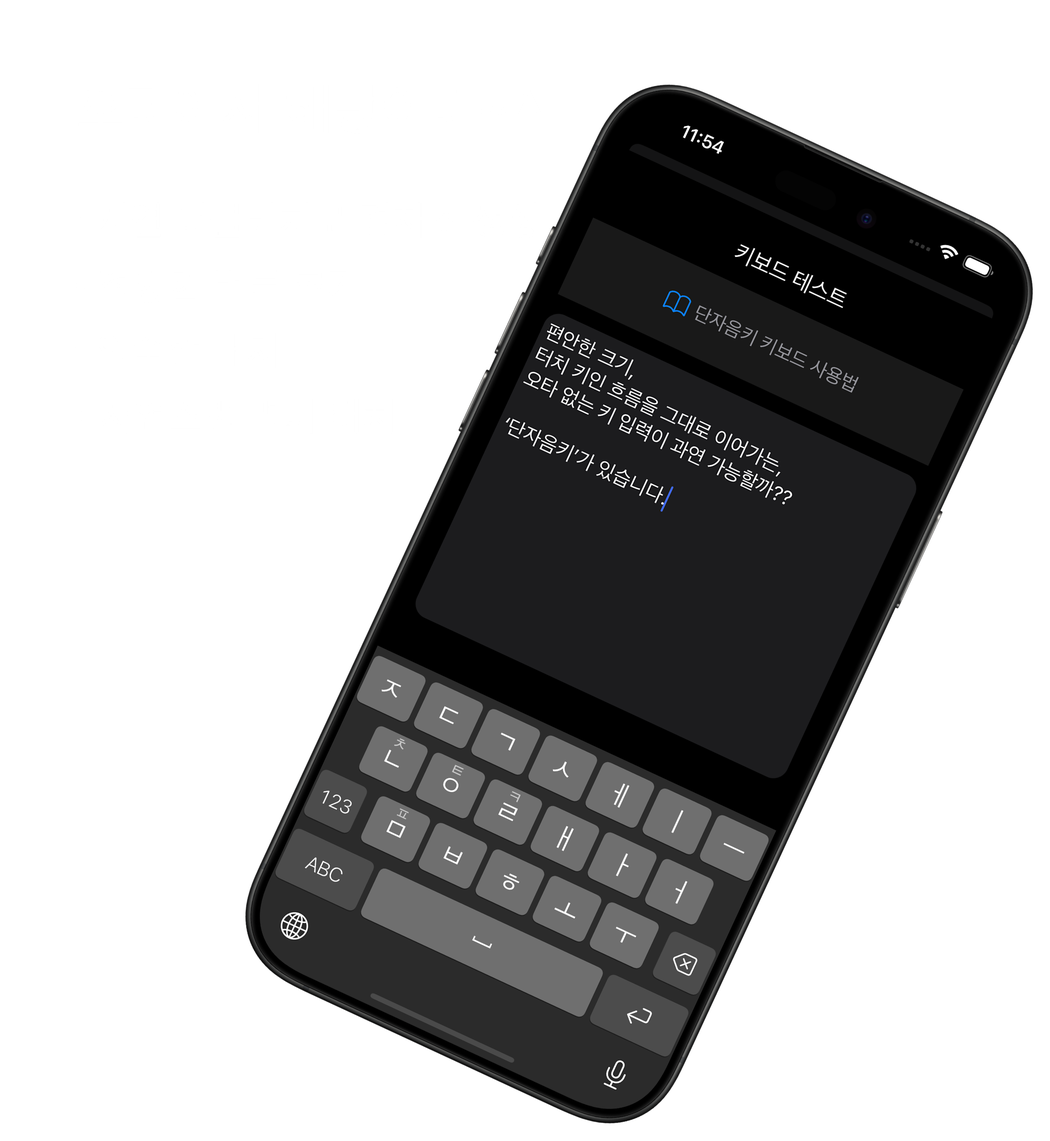
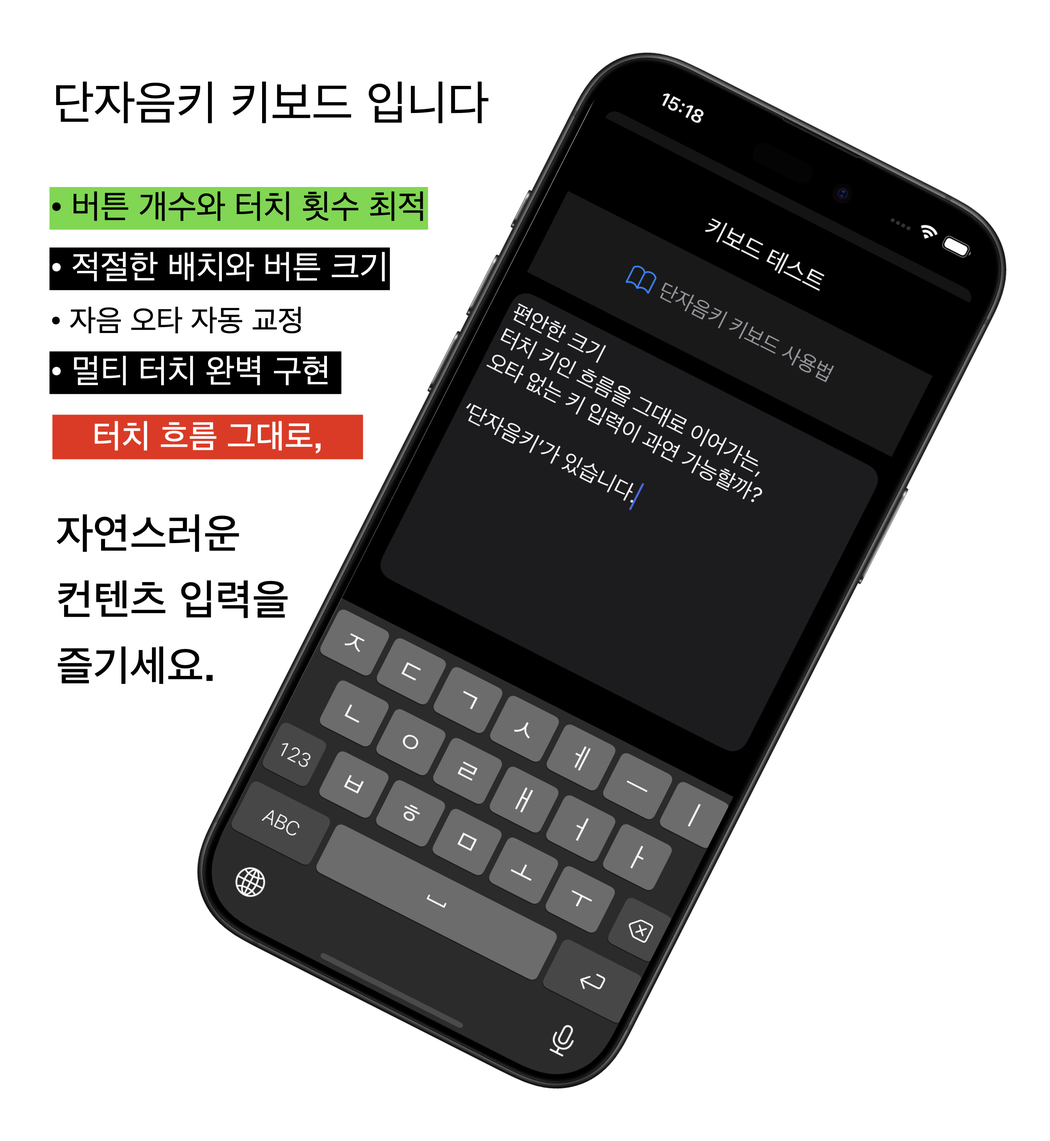
Add files via upload

Changed region(s): [[0.0311, 0.031, 0.9939, 0.993], [0.0311, 0.0621, 0.4659, 0.1241]]

diff --git a/manual.html b/manual.html
@@ -5,7 +5,7 @@
 	<meta name="viewport" content="width=device-width, initial-scale=1">
 	<meta name="generator" content="RocketCake">
 	<title></title>
-	<link rel="stylesheet" type="text/css" href="manual_html.css?h=6cad0a75">
+	<link rel="stylesheet" type="text/css" href="manual_html.css?h=8f11c857">
 </head>
 <body>
 <div class="textstyle1">
@@ -15,20 +15,19 @@
 </div></div><div id="container_5e11d928"><div class="textstyle4"><div id="container_2d7b4969"><div class="textstyle4"><span class="textstyle5"><a href="index.html">Home</a></span><span class="textstyle5"><br/></span><span class="textstyle5"><a href="about.html">About</a></span><span class="textstyle5"><br/></span><span class="textstyle5"><a href="contact.html">Contact</a></span><span class="textstyle5"><br/></span><span class="textstyle6"><a href="manual.html">Manual</a></span><span class="textstyle5"><br/></span></div>
 </div></div>
 </div></div>
-<div style="clear:both"></div></div></div><div id="container_42e1be39"><div class="textstyle2"><img src="rc_images/djmkey_dark_wide_____002.png" width="1755" height="959" id="img_11e60731" alt="" title="" /></div>
-</div><span class="textstyle7"><br/></span><span class="textstyle8"><br/></span><div id="container_541cc4d"><div id="container_541cc4d_padding" ><div class="textstyle2"><span class="textstyle9"><br/><br/>    </span><span class="textstyle10">&#45800;&#51088;&#51020;&#53412; &#47700;&#45684;&#50620;<br/></span><span class="textstyle9"><br/></span><div id="container_b26edf4"><div id="container_b26edf4_padding" ><div class="textstyle2">  <span class="textstyle11">&#44217;&#51088;&#49548; &#51648;&#50672; &#53412; &#49324;&#50857;&#48277; </span>
-<span class="textstyle12"><br/>&#44217;&#51088;&#49548; (&#49933;&#51088;&#51020;, &#44217;&#51088;&#51020; , &#49933;&#47784;&#51020;)&#47484;  &#49373;&#49457;&#54616;&#45716; &#48324;&#46020;&#51032; &#44508;&#52825;&#51060; &#51080;&#49845;&#45768;&#45796; <br/></span><span class="textstyle13">-&gt; &#45908;&#48660;&#53364;&#47533;&#51032; &#46160;&#48264;&#51704; &#53364;&#47533;&#51012; &#51328; &#45908; &#48736;&#47476;&#44172; &#53552;&#52824;&#54616;&#46020;&#47197;&#54633;&#45768;&#45796;</span><span class="textstyle12"><br/><br/>&#51060;&#47196;&#50024; '&#54617;&#44368;'&#50752; &#44057;&#51060; '&#12593;' '&#12593;'&#51012; &#48736;&#47476;&#44172; &#51077;&#47141;&#54616;&#50668;&#46020; &#50724;&#53440;&#44032; &#48156;&#49373;&#54616;&#51648; &#50506;&#44256; &#53412; &#51077;&#47141; &#49549;&#46020; &#46608;&#54620; &#48736;&#47493;&#45768;&#45796;   <br/></span></div>
-</div></div><span class="textstyle9"><br/><br/></span><img src="rc_images/djmkey_light_____002.png" width="1320" height="944" id="img_76372fca" alt="" title="" /><div id="container_5ed9721c"><div id="container_5ed9721c_padding" ><div class="textstyle2"><span class="textstyle11">&#44217;&#51088;&#51020; &#8216;&#12619;&#8217; &#47564;&#46308;&#44592; 1)</span><span class="textstyle12"><br/>&#44217;&#51088;&#51020; &#45824;&#51025; &#53412; &#8216;&#12601;&#8217; &#48260;&#53948;&#51012; &#45908;&#48660;&#53552;&#52824;&#54624;&#46412; &#52395;&#48264;&#51704; &#53552;&#52824; &#44600;&#44172; &#46160;&#48264;&#51704; &#53552;&#52824;&#45716; &#51687;&#44172; &#53552;&#52824;&#54616;&#47732; &#46121;&#45768;&#45796;<br/><br/></span><span class="textstyle14">* &#44217;&#51088;&#49548; &#51064;&#51221; &#54661;&#54001; &#48152;&#51025;&#51012; &#48155;&#51012; &#49688; &#51080;&#49845;&#45768;&#45796;(&#50741;&#49496; &#49444;&#51221;) </span></div>
-</div></div><span class="textstyle9"><br/><br/></span><img src="rc_images/djmkey_light_____003.png" width="1320" height="954" id="img_5be0ad15" alt="" title="" /><div id="container_62709428"><div id="container_62709428_padding" ><div class="textstyle2"><span class="textstyle11">&#44217;&#51088;&#51020; &#8216;&#12619;&#8217; &#47564;&#46308;&#44592; 2)</span><span class="textstyle12"><br/>&#44217;&#51088;&#51020; &#45824;&#51025; &#53412; &#8216;&#12601;&#8217; &#48260;&#53948;&#51012; &#44600;&#44172; &#53552;&#52824; &#54980; &#50948;&#51901; &#48169;&#54693;&#51004;&#47196; &#54540;&#47549;(&#50424;&#50612;&#50732;&#47532;&#44592;)&#54616;&#47732; &#46121;&#45768;&#45796;<br/></span></div>
-</div></div><span class="textstyle9"><br/><br/></span><img src="rc_images/djmkey_light_____004.png" width="1320" height="948" id="img_66675b11" alt="" title="" /><div id="container_4c8cc367"><div id="container_4c8cc367_padding" ><div class="textstyle2"><span class="textstyle11">&#51096;&#47803; &#51077;&#47141;&#46108; &#44217;&#51088;&#49548;&#51032; &#45800;&#51088;&#49548;&#47484; &#44217;&#51088;&#49548;&#47196; &#48320;&#54872;</span><span class="textstyle12"><br/>&#8216;&#12619;&#8217; &#53412;&#47484; &#51648;&#50672; &#53552;&#52824;&#54620; &#44163;&#51060; &#51096;&#47803;&#51077;&#47141;&#46108; &#44163;&#51060;&#46972;&#47732; 3&#44032;&#51648; &#48169;&#48277;&#51060; &#51080;&#49845;&#45768;&#45796;<br/><br/>1) &#51060;&#48120; &#45800;&#51088;&#49548; 1&#44060;&#44032; &#51077;&#47141;&#46108; &#44163;&#51060;&#46972;&#47732; &#53412;&#48372;&#46300; &#50612;&#45712;&#44275;&#51060;&#46304; &#50500;&#47000; &#48169;&#54693; &#54540;&#47549;<br/>2) &#51060;&#48120; 2&#44060; &#46041;&#51068;&#54620; &#45800;&#51088;&#49548;&#47196; &#51077;&#47141;&#46108; &#44163;&#51060;&#46972;&#47732; &#53412;&#48372;&#46300; &#50612;&#45712; &#44275;&#51060;&#46304; &#50500;&#47000; &#48169;&#54693; &#54540;&#47549;<br/>3) &#51060;&#48120; 1&#53552;&#52824; &#54980; 2&#53552;&#52824;&#47484; &#45572;&#47480; &#49345;&#53468;&#50640;&#49436; &#44217;&#51088;&#49548; &#54056;&#53556;&#51060; &#51096;&#47803;&#46108; &#44163;&#51060;&#47732; &#51593;&#49884; &#50500;&#47000; &#48169;&#54693; &#54540;&#47549;<br/></span></div>
-</div></div><span class="textstyle9"><br/><br/></span><img src="rc_images/eumjikey_light_____004.png" width="660" height="477" id="img_6532fa0e" alt="" title="" /><div id="container_4fe2a894"><div id="container_4fe2a894_padding" ><div class="textstyle2"><span class="textstyle11">&#49772;&#54532;&#53944;&#53412;(up&#53412;) &#49440;&#53469; 1)</span><span class="textstyle12"><br/>&#50696;) ' 8 &#8216; &#53412;&#47484; &#50948;&#54644; ' &#12624; '&#53412;&#47484; &#45572;&#47476;&#51088; &#47560;&#51088; &#50948; &#48169;&#54693; &#54540;&#47549;(&#50424;&#50612;&#50732;&#47532;&#44592;) &#54633;&#45768;&#45796;</span></div>
-</div></div><span class="textstyle9"><br/><br/></span><img src="rc_images/djmkey_light_____006.png" width="1320" height="948" id="img_2a64b3ae" alt="" title="" /><div id="container_5a2c13b7"><div id="container_5a2c13b7_padding" ><div class="textstyle2"><span class="textstyle11">&#49772;&#54532;&#53944;&#53412;(up&#53412;) &#49440;&#53469; 2)</span><span class="textstyle12"><br/>&#8216;123&#8217;&#53412;&#47484; 0.5&#52488; &#51060;&#49345; &#45572;&#47480; &#52292;&#47196; &#50628;&#51648;&#47484; ' &#12624; ' &#50948;&#52824;&#47196; &#45132;&#50612; &#49440;&#53469;&#54616;&#44144;&#45208; &#45796;&#47480; &#49552;&#44032;&#46973;&#51004;&#47196; &#45572;&#47493;&#45768;&#45796;<br/></span></div>
-</div></div><span class="textstyle9"><br/><br/></span><img src="rc_images/djmkey_light_____007.png" width="1320" height="949" id="img_4902854c" alt="" title="" /><div id="container_7e510c81"><div id="container_7e510c81_padding" ><div class="textstyle2">  <span class="textstyle12">&#50696;) ' &#44036; ' : &#50628;&#51648;&#47484; &#46524;&#51648; &#50506;&#44256; &#45796;&#47480; &#50628;&#51648;&#47196; &#51088;&#49548;&#47484; &#45572;&#47476;&#45716; &#47680;&#54000; &#53552;&#52824;&#44032; &#44032;&#45733;&#54633;&#45768;&#45796; </span>
+<div style="clear:both"></div></div></div><div id="container_42e1be39"><div class="textstyle2"><img src="rc_images/djmkey_dark_wide_0021.png" width="1893" height="969" id="img_11e60731" alt="" title="" /></div>
+</div><span class="textstyle7"><br/></span><span class="textstyle8"><br/></span><div id="container_541cc4d"><div id="container_541cc4d_padding" ><div class="textstyle2"><span class="textstyle9"><br/><br/>    </span><span class="textstyle10">&#45800;&#51088;&#51020;&#53412; &#47700;&#45684;&#50620;<br/></span><span class="textstyle9"><br/></span><span class="textstyle9"><br/><br/></span><img src="rc_images/djmkey_light_002.png" width="1320" height="1487" id="img_76372fca" alt="" title="" /><div id="container_5ed9721c"><div id="container_5ed9721c_padding" ><div class="textstyle2"><span class="textstyle11">&#44217;&#51088;&#51020; &#48143; &#44221;&#51088;&#51020; &#47564;&#46308;&#44592; 1)</span><span class="textstyle12"><br/>&#50500;&#47000; &#51088;&#49548;&#46308;&#51008; &#45908;&#48660; &#53552;&#52824;&#47196; &#47564;&#46317;&#45768;&#45796;<br/>- &#51088;&#51020; 5&#44060;: &#12619; &#12620; &#12618; &#12621; &#12611; &#12614;   <br/>- &#47784;&#51020;: &#12625; &#12629; &#12635; ...<br/><br/>&#50500;&#47000; &#51088;&#49548;&#46308;&#51008; 3&#45908;&#48660;&#53552;&#52824;&#47196; &#47564;&#46317;&#45768;&#45796;<br/>&#12594; &#12600; &#12617; <br/></span></div>
+</div></div><span class="textstyle9"><br/><br/></span><img src="rc_images/djmkey_light_004.png" width="1320" height="1301" id="img_5be0ad15" alt="" title="" /><div id="container_62709428"><div id="container_62709428_padding" ><div class="textstyle2"><span class="textstyle11">&#44217;&#51088;&#51020; &#48143; &#44221;&#51088;&#51020; &#47564;&#46308;&#44592; 2)</span><span class="textstyle12"><br/>&#44217;&#51088;&#51020; &#45824;&#51025; &#53412; &#8216;&#12601;&#8217; &#48260;&#53948;&#51012; &#44600;&#44172; &#53552;&#52824; &#54980; &#50948;&#51901; &#48169;&#54693;&#51004;&#47196; &#54540;&#47549;(&#50424;&#50612;&#50732;&#47532;&#44592;) &#54633;&#45768;&#45796; </span></div>
+</div></div><span class="textstyle9"><br/><br/></span><img src="rc_images/djmkey_light_005.png" width="1320" height="963" id="img_66675b11" alt="" title="" /><div id="container_4c8cc367"><div id="container_4c8cc367_padding" ><div class="textstyle2"><span class="textstyle11">&#51096;&#47803; &#51077;&#47141;&#46108; &#44217;&#51088;&#49548;&#51032; &#45800;&#51088;&#49548;&#47484; &#44217;&#51088;&#49548;&#47196; &#48320;&#54872;</span><span class="textstyle12"><br/>&#8216;&#12619;&#8217; &#53412;&#47484; &#51648;&#50672; &#53552;&#52824;&#54620; &#44163;&#51060; &#51096;&#47803;&#51077;&#47141;&#46108; &#44163;&#51060;&#46972;&#47732; &#53412;&#48372;&#46300; &#50612;&#45712; &#44275;&#51060;&#46304; &#50500;&#47000; &#48169;&#54693;&#51004;&#47196; &#54540;&#47549;<br/><br/></span><span class="textstyle11">3&#45908;&#48660;&#53364;&#47533;&#51012; &#45824;&#52404;&#54616;&#45716; &#44221;&#51088;&#49548; &#47564;&#46308;&#44592;</span><span class="textstyle12"><br/>&#12593;, &#12599;, &#12616; &#51088;&#49548;&#50640;&#49436; &#50500;&#47000; &#48169;&#54693;&#51004; &#54540;&#47549;&#54633;&#45768;&#45796;<br/></span></div>
+</div></div><span class="textstyle9"><br/><br/></span><img src="rc_images/djmkey_light_006.png" width="1320" height="959" id="img_6532fa0e" alt="" title="" /><div id="container_4fe2a894"><div id="container_4fe2a894_padding" ><div class="textstyle2"><span class="textstyle11">&#46160;&#48264;&#51704; &#53412; &#47564;&#46308;&#44592; (&#52395;&#48264;&#51704; &#48169;&#48277;)</span><span class="textstyle12"><br/>&#50696;) ' 8 &#8216; &#53412;&#47484; &#50948;&#54644; ' &#12624; '&#53412;&#47484; &#45572;&#47476;&#51088; &#47560;&#51088; &#50948; &#48169;&#54693; &#54540;&#47549;(&#50424;&#50612;&#50732;&#47532;&#44592;) &#54633;&#45768;&#45796;</span></div>
+</div></div><span class="textstyle9"><br/><br/></span><img src="rc_images/djmkey_light_007.png" width="1320" height="967" id="img_2a64b3ae" alt="" title="" /><div id="container_5a2c13b7"><div id="container_5a2c13b7_padding" ><div class="textstyle2"><span class="textstyle11">&#46160;&#48264;&#51704; &#53412; &#47564;&#46308;&#44592; (&#46160;&#48264;&#51704; &#48169;&#48277;)</span><span class="textstyle12"><br/>&#50696;) '8'&#53412;&#47484; &#47564;&#46308;&#44592;&#50948;&#54644; &#8216;123&#8217;&#53412;&#47484; 0.5&#52488; &#51060;&#49345; &#45572;&#47480; &#52292;&#47196; &#50628;&#51648;&#47484; '&#12624;' &#50948;&#52824;&#47196; &#45132;&#50612; &#49440;&#53469;&#54616;&#44144;&#45208; &#45796;&#47480; &#49552;&#44032;&#46973;&#51004;&#47196; &#45572;&#47493;&#45768;&#45796;<br/></span></div>
+</div></div><span class="textstyle9"><br/><br/></span><img src="rc_images/djmkey_light_008.png" width="1320" height="1144" id="img_4902854c" alt="" title="" /><div id="container_7e510c81"><div id="container_7e510c81_padding" ><div class="textstyle2">  <span class="textstyle11">&#51088;&#51020; &#47784;&#51020; &#46041;&#49884;&#50640; &#45572;&#47476;&#44592; (&#47680;&#54000; &#53552;&#52824;) </span>
+  <span class="textstyle12"><br/>&#50696;) ' &#44036; ' : &#50628;&#51648;&#47484; &#46524;&#51648; &#50506;&#44256; &#45796;&#47480; &#50628;&#51648;&#47196; &#51088;&#49548;&#47484; &#45572;&#47476;&#45716; &#47680;&#54000; &#53552;&#52824;&#44032; &#44396;&#54788;&#46104;&#50612; &#51080;&#49845;&#45768;&#45796; </span>
 </div>
-</div></div><span class="textstyle9"><br/></span><img src="rc_images/djmkey_dark_____003.png" width="1320" height="2729" id="img_614a360" alt="" title="" /><span class="textstyle9"><br/></span><div id="container_4a065c39"><div id="container_4a065c39_padding" ><div class="textstyle2">  <span class="textstyle12">&#50741;&#49496; &#47588;&#45684;&#51077;&#45768;&#45796;<br/></span>
+</div></div><span class="textstyle9"><br/></span><img src="rc_images/djmkey_darkmokup_003.png" width="1320" height="2868" id="img_614a360" alt="" title="" /><span class="textstyle9"><br/></span><div id="container_4a065c39"><div id="container_4a065c39_padding" ><div class="textstyle2">  <span class="textstyle12">&#50741;&#49496; &#47588;&#45684;&#51077;&#45768;&#45796;<br/></span>
 </div>
 </div></div><span class="textstyle9"><br/></span></div>
-<div style="clear:both"></div></div></div><span class="textstyle15"><br/></span><span class="textstyle16">Copyright 2025 &#51648;&#45824;&#49440;. All rights reserved</span><span class="textstyle15"><br/></span></div>
+<div style="clear:both"></div></div></div><span class="textstyle13"><br/></span><span class="textstyle14">Copyright 2025 &#51648;&#45824;&#49440;. All rights reserved</span><span class="textstyle13"><br/></span></div>
 </div>  </div>
 </body>
 </html>

diff --git a/index.html b/index.html
@@ -6,7 +6,8 @@
 <meta name="title” content=“단자음 10키 한글 키보드 ”>
 <meta name="keywords" content=“단자음키, 단자음키보드, 엄지키, 엄지키보드, 한글키보드추천, 아이폰한글키보드, 한글키, 한글키보드, 단모음, 단키, 넥스트플랜, nextplan, 핸드폰”>
 <meta name="description" content=“단자음키는 핸드폰에서 한글 입력시 단자음 10키와 단모음 8키를 이용하며 자동 오타 교정과 함께 동시 누름 방식을 적용하여 자연스러운 키 입력이 되도록 하였음”>
-	<link rel="stylesheet" type="text/css" href="index_html.css?h=ece15f9f">
+	<title></title>
+	<link rel="stylesheet" type="text/css" href="index_html.css?h=334a8279">
 </head>
 <body>
 <div class="textstyle1">
@@ -31,7 +32,7 @@
 <div style="clear:both"></div></div></div></div>
 <div style="clear:both"></div></div></div></div>
 <div class="textstyle2"><span class="textstyle13"><br/></span></div>
-<div class="textstyle1"><div id="container_28baa5e8"><div id="container_28baa5e8_padding" ><div class="textstyle2"><span class="textstyle14">&#50500;&#51060;&#54256; &#51221;&#44508; &#53412;&#48372;&#46300;&#44032; &#48520;&#54200;&#54616;&#44172; &#45712;&#44788;&#48376; &#51201;&#51060; &#51080;&#45796;&#47732; &#44536;&#44163;&#51008; &#50500;&#47560;, &#51088;&#49548; &#44208;&#54633;&#51004;&#47196; &#44396;&#49457;&#46104;&#45716; &#54620;&#44544;&#51032; &#53945;&#49457;&#51012; &#51228;&#45824;&#47196; &#48152;&#50689;&#54616;&#51648; &#47803;&#54616;&#45716; &#54620;&#44228;&#47484; &#45712;&#45180;&#44592; &#46412;&#47928;&#51068; &#44163;&#51077;&#45768;&#45796;<br/>&#51333;&#49457;&#44284; &#52488;&#49457;&#51012; &#54632;&#44760; &#49324;&#50857;&#54616;&#44256; &#51088;&#49548; &#44208;&#54633;&#51012; &#53945;&#49457;&#51004;&#47196; &#54616;&#45716; &#54620;&#44544;&#51012; &#50728;&#51204;&#55176; &#49324;&#50857;&#54624; &#49688; &#51080;&#50612;&#50556;&#44192;&#49845;&#45768;&#45796;<br/><br/>&#8226; '&#45800;&#51088;&#51020;&#53412;' &#53412;&#48372;&#46300;&#50640;&#45716; &#52488;&#49457; &#46608;&#45716; &#51333;&#49457;&#51032; &#44217;&#51088;&#51020;&#51012; &#48516;&#47532;&#54616;&#44192;&#45796;&#45716; &#48516;&#47749;&#54620; &#51032;&#51648;&#44032; &#48152;&#50689;&#46104;&#45716; &#53412;&#48372;&#46300; &#44508;&#52825;&#51060; &#51080;&#49845;&#45768;&#45796; <br/>-&gt; &#44217;&#51088;&#49548;&#50640; &#54644;&#45817;&#54616;&#45716; &#53412;&#47484; &#45908;&#48660;&#53552;&#52824;&#54624; &#46412; &#52395;&#48264;&#51704;&#48372;&#45796; &#46160;&#48264;&#51704; &#53552;&#52824;&#47484; &#51328;&#45908; &#51687;&#44172; &#53552;&#52824;&#54616;&#47732; &#44217;&#51088;&#49548;(&#49933;&#51088;&#51020;, &#44217;&#51088;&#51020;, &#49933;&#47784;&#51020;)&#44032; &#49373;&#49457;&#46121;&#45768;&#45796;.<br/><br/><br/></span><span class="textstyle15">[ &#44592;&#51316; &#45796;&#47480; &#53412;&#48372;&#46300;&#48372;&#45796; &#44060;&#49440;&#46108; &#51216; ]</span><span class="textstyle14"><br/>&#8226;  &#51333;&#49457;&#44284; &#52488;&#49457;&#51012; &#48516;&#47532;&#54616;&#44592;&#54616;&#44144;&#45208; &#48324;&#46020; &#51088;&#49548; &#53412; &#49828;&#53416;&#51012; &#48148;&#44984;&#44592;&#50948;&#54644;&#49436; &#46021;&#47549;&#46108; &#45796;&#47480; &#48260;&#53948;(&#50696;, &#49828;&#54168;&#51060;&#49828;&#48148;)&#51012; &#54620;&#48264; &#45908; &#45572;&#47476;&#51648; &#50506;&#51020; <br/>&#8226;  &#8216;&#12594;&#8217; &#46321;&#51012; &#47564;&#46308;&#44592;&#50948;&#54644; '&#12593;' &#53412;&#47484; &#45572;&#47480;&#44256; &#47568; &#54413;&#49440; &#46888;&#44592;&#47484; &#44592;&#45796;&#47536;&#54980; &#46300;&#47084;&#44536;&#54616;&#50668; &#8216;&#12594;&#8217;&#51012; &#49440;&#53469;&#54616;&#45716; &#44284;&#51221; &#44540;&#50896;&#51201; &#51228;&#44144;<br/></span><span class="textstyle16">&#8226;  &#8216;&#54617;&#44368;&#8217;&#50752; &#44057;&#51060; &#46041;&#51068; &#51088;&#51020;&#51012; &#48736;&#47476;&#44172; &#51077;&#47141;&#54616;&#47732; &#8216;&#54616;&#44956;&#8217;&#49885;&#51032; &#50724;&#47448;&#47484; &#44540;&#50896;&#51201;&#51004;&#47196; &#51228;&#44144;&#54616;&#50668;  &#51088;&#46041;&#44368;&#51221; &#48520;&#54596;&#50836; </span><span class="textstyle14"><br/>&#8226;  &#50577;&#49552; &#47680;&#54000; &#53552;&#52824; &#46041;&#51089;&#51060; &#44032;&#45733;&#54644; &#51060;&#47484; &#51201;&#50857;&#54632;&#51004;&#47196;&#49436; &#51077;&#47141;&#51012; &#48512;&#46300;&#47101;&#44172; &#54624; &#49688; &#51080;&#50632;&#51020;<br/>&#8226;  &#50500;&#51060;&#54256; &#51221;&#44508; &#53412; &#48260;&#53948; &#44079;&#49688;&#47484; 1/3 &#44032;&#47049; &#51460;&#51060;&#44172; &#46120;&#51004;&#47196;&#49436; &#49345;&#45824;&#51201;&#51004;&#47196; &#53412; &#48260;&#53948; &#53356;&#44592;&#44032; &#52964;&#51256;, &#53552;&#52824;&#49884; &#50724;&#53440;(&#55092;&#47676; &#50528;&#47084;)&#48156;&#49373;&#50984; &#45824;&#54253; &#44060;&#49440;<br/>&#8226;  &#54364;&#51456; &#53412;&#48372;&#46300;&#51032; &#51473;&#50836; &#51088;&#51020; &#53412; &#48176;&#50676;&#51012; &#45824;&#48512;&#48516; &#46041;&#51068;&#54616;&#44172; &#48176;&#52824;&#54624; &#49688; &#51080;&#50632;&#51020;<br/><br/></span><span class="textstyle15">[ &#52628;&#44032; &#51201;&#50857;&#46108; &#44163; ]</span><span class="textstyle14"><br/>&#8226;  &#50500;&#47000; &#48169;&#54693; &#50424;&#50612;&#45236;&#47548; &#46041;&#51089;&#51004;&#47196; &#45800;&#51088;&#49548;&#47484; &#44217;&#51088;&#49548;&#47196; &#44368;&#51221;&#54616;&#45716; &#54200;&#51032; &#51201;&#50857; <br/>&#8226;  &#50948; &#48169;&#54693; &#50424;&#50612;&#50732;&#47548; &#46041;&#51089;&#51004;&#47196; 2&#48264;&#51704; &#53412;(&#50696;, '?' or '1,2,3..'&#46321;) &#48736;&#47476;&#44172; &#49324;&#50857; <br/>&#8226;  &#53440;&#51088; &#49549;&#46020;&#50640; &#47582;&#52656; &#44217;&#51088;&#49548; &#49373;&#49457; &#45572;&#47492; &#49884;&#44036; &#44036;&#44201; &#51088;&#46041; &#51312;&#51221;<br/>&#8226;  &#49707;&#51088; &#54056;&#45328; &#45208;&#53440;&#45236;&#44592; &#49704;&#44592;&#44592;&#47484; &#53412;&#48372;&#46300; &#51228;&#49828;&#52376;&#47196; &#52376;&#47532;&#54632; (&#53412;&#48372;&#46300;&#50640;&#49436; 3&#52856; &#51060;&#49345; &#50500;&#47000;&#47196; &#50424;&#50612; &#45236;&#47532;&#44592;)<br/><br/></span></div>
+<div class="textstyle1"><div id="container_28baa5e8"><div id="container_28baa5e8_padding" ><div class="textstyle2"><span class="textstyle14">&#50500;&#51060;&#54256; &#51221;&#44508; &#53412;&#48372;&#46300;&#44032; &#48520;&#54200;&#54616;&#44172; &#45712;&#44788;&#48376; &#51201;&#51060; &#51080;&#45796;&#47732; &#44536;&#44163;&#51008; &#50500;&#47560;, &#51088;&#49548; &#44208;&#54633;&#51004;&#47196; &#44396;&#49457;&#46104;&#45716; &#54620;&#44544;&#51032; &#53945;&#49457;&#51012; &#51228;&#45824;&#47196; &#48152;&#50689;&#54616;&#51648; &#47803;&#54616;&#45716; &#54620;&#44228;&#47484; &#45712;&#45180;&#44592; &#46412;&#47928;&#51068; &#44163;&#51077;&#45768;&#45796;<br/>&#51333;&#49457;&#44284; &#52488;&#49457;&#51012; &#54632;&#44760; &#49324;&#50857;&#54616;&#44256; &#51088;&#49548; &#44208;&#54633;&#51012; &#53945;&#49457;&#51004;&#47196; &#54616;&#45716; &#54620;&#44544;&#51012; &#50728;&#51204;&#55176; &#49324;&#50857;&#54624; &#49688; &#51080;&#50612;&#50556;&#44192;&#49845;&#45768;&#45796;<br/><br/></span><span class="textstyle15">[ &#44592;&#51316; &#45796;&#47480; &#53412;&#48372;&#46300;&#48372;&#45796; &#44060;&#49440;&#46108; &#51216; ]</span><span class="textstyle14"><br/></span><span class="textstyle16">1. &#48260;&#53948;&#51032; &#44079;&#49688;&#47484; &#53552;&#52824;&#50640; &#51201;&#45817;&#54620; &#44079;&#49688;&#47196; &#54616;&#50688;&#49845;&#45768;&#45796;</span><span class="textstyle14"><br/>   &#48260;&#53948;&#51060; &#45320;&#47924; &#47566;&#51004;&#47732; &#53552;&#52824; &#54943;&#49688;&#45716; &#51201;&#51004;&#45208; &#53552;&#52824; &#49892;&#49688; &#50724;&#53440;&#44032; &#47566;&#44256; &#45320;&#47924; &#51201;&#51004;&#47732; &#53412;&#51064; &#54943;&#49688;&#45716; &#51613;&#44032;&#46104;&#45208; &#53552;&#52824; &#49892;&#49688;&#44032; &#51201;&#50612;&#51665;&#45768;&#45796; <br/></span><span class="textstyle16">2. &#52572;&#45824;&#54620; &#48736;&#47480; &#53412;&#51064;&#51012; &#54624; &#49688; &#51080;&#46020;&#47197; &#54616;&#50688;&#49845;&#45768;&#45796;</span><span class="textstyle14"><br/>  &#50896;&#53552;&#52824;,&#45908;&#48660;&#53552;&#52824;,3&#45908;&#48660;&#53552;&#52824;(&#12594;,&#12600;,&#12617;)&#47484; &#49324;&#50857;&#54616;&#50668; &#51648;&#50672; &#53552;&#52824;(&#54413;&#49440; &#47568; &#49324;&#50857;&#46321;) &#50630;&#51060; &#45233;&#47568;&#51060; &#50756;&#49457;&#46121;&#45768;&#45796;<br/>3. &#45908;&#48660;&#53552;&#52824;&#47448;&#51032; &#51088;&#49548;&#47196; &#51064;&#54620; &#50724;&#53440;(&#12619; -&gt; &#12593;&#12593;)&#47484; &#44368;&#51221;&#54616;&#45716; &#51088;&#46041; &#44053;&#51228;&#44368;&#51221; &#48143; &#44397;&#50612;&#49324;&#51204;(&#44397;&#47549;&#44397;&#50612;&#50896; &#54364;&#51456;&#44592;&#52488;&#49324;&#51204;)&#51012; &#52280;&#44256;&#54616;&#45716; &#51088;&#46041; &#49324;&#51204;&#44368;&#51221;&#51004;&#47196; &#52376;&#47532;&#54633;&#45768;&#45796;<br/>4. &#50577;&#49552; &#50628;&#51648;&#47484; &#46041;&#49884;&#50640; &#45572;&#47476;&#47728; &#53412;&#51064;&#51012; &#51060;&#50612;&#44032;&#45716; &#47680;&#54000;&#53552;&#52824;&#44032; &#50756;&#51204;&#54616;&#44172; &#44396;&#54788;&#46104;&#50612; &#51080;&#49845;&#45768;&#45796; &#45236;&#48512;&#51201;&#51004;&#47196; &#51088;&#46041;&#44368;&#51221;&#51060; &#51652;&#54665;&#46104;&#50612;&#46020; &#51221;&#49345; &#52376;&#47532;&#46121;&#45768;&#45796;<br/><br/><br/></span></div>
 </div></div></div>
 <div class="textstyle2"><span class="textstyle10"><br/></span><div id="container_749be54d"><div id="container_749be54d_padding" ><div class="textstyle1"><span class="textstyle17"><br/></span><div id="container_7ea221bd"><div id="container_7ea221bd_padding" ><div class="textstyle2"><span class="textstyle18">&#45800;&#51088;&#51020;&#53412;&#48372;&#46300;&#44032; &#51080;&#49845;&#45768;&#45796;!</span><span class="textstyle19"><br/><br/></span><span class="textstyle20">&#54200;&#50504;&#54620; &#48260;&#53948; &#53356;&#44592;, <br/>&#53552;&#52824; &#53412;&#51064; &#55120;&#47492;&#51012; &#44536;&#45824;&#47196; &#51060;&#50612;&#44032;&#45716;,<br/>&#50724;&#53440; &#50630;&#45716; &#53412; &#51077;&#47141;&#51060; &#44032;&#45733;&#54633;&#45768;&#45796;.<br/></span></div>
 </div></div><span class="textstyle21"><br/><br/></span></div>

diff --git a/manual_html.css b/manual_html.css
@@ -24,15 +24,11 @@ body { background-color:#FFFFFF; padding:0;  margin: 0; }
 #container_541cc4d_padding { margin: 10px; display: block;  }
 .textstyle9 { font-size:12pt; font-family:Arial, Helvetica, sans-serif; color:#000000;  }
 .textstyle10 { font-size:22pt; font-family:Arial, Helvetica, sans-serif; color:#000000; font-weight:bold;  }
-#container_b26edf4 { vertical-align: top; position:relative; display: inline-block; width:100%; min-height:160px; background:none;  }
-#container_b26edf4_padding { margin: 20px 20px 20px 0px;display: block;  }
-.textstyle11 { font-size:13pt; font-family:Arial, Helvetica, sans-serif; color:#000000; font-weight:bold;  }
-.textstyle12 { font-size:13pt; font-family:Arial, Helvetica, sans-serif; color:#000000;  }
-.textstyle13 { font-size:13pt; font-family:Arial, Helvetica, sans-serif; color:#000000; font-weight:bold; text-decoration:underline;  }
 #img_76372fca { vertical-align: bottom; position:relative; display: inline-block; width:50%; background:none; height:auto;  }
 #container_5ed9721c { vertical-align: top; position:relative; display: inline-block; width:50%; min-height:150px; background:none;  }
 #container_5ed9721c_padding { margin: 20px 20px 20px 0px;display: block;  }
-.textstyle14 { font-size:11pt; font-family:Arial, Helvetica, sans-serif; color:#000000;  }
+.textstyle11 { font-size:13pt; font-family:Arial, Helvetica, sans-serif; color:#000000; font-weight:bold;  }
+.textstyle12 { font-size:13pt; font-family:Arial, Helvetica, sans-serif; color:#000000;  }
 #img_5be0ad15 { vertical-align: bottom; position:relative; display: inline-block; width:50%; background:none; height:auto;  }
 #container_62709428 { vertical-align: top; position:relative; display: inline-block; width:50%; min-height:150px; background:none;  }
 #container_62709428_padding { margin: 20px 20px 20px 0px;display: block;  }
@@ -51,15 +47,14 @@ body { background-color:#FFFFFF; padding:0;  margin: 0; }
 #img_614a360 { vertical-align: bottom; position:relative; display: inline-block; width:100%; background:none; height:auto;  }
 #container_4a065c39 { vertical-align: top; position:relative; display: inline-block; width:50%; min-height:52px; background:none;  }
 #container_4a065c39_padding { margin: 20px 20px 20px 0px;display: block;  }
-.textstyle15 { font-size:32pt; font-family:Tahoma, Geneva, sans-serif; color:#20242E;  }
-.textstyle16 { font-size:8pt; font-family:Arial, Helvetica, sans-serif; color:#000000;  }
+.textstyle13 { font-size:32pt; font-family:Tahoma, Geneva, sans-serif; color:#20242E;  }
+.textstyle14 { font-size:8pt; font-family:Arial, Helvetica, sans-serif; color:#000000;  }
 @media only screen and (max-width: 640px)
 {
 		#container_2e18e390 * span { font-size:15pt;  }
 }
 @media only screen and (max-width: 600px)
 {
-		#container_b26edf4 { width:100%;  }
 		#container_5ed9721c { width:100%;  }
 		#container_62709428 { width:100%;  }
 		#container_4c8cc367 { width:100%;  }

diff --git a/index_html.css b/index_html.css
@@ -25,8 +25,8 @@ body { background-color:#FFFFFF; padding:0;  margin: 0; }
 #container_77609974 { vertical-align: top; position:relative; display: inline-block; width:100%; background:none;  }
 .textstyle5 { font-size:14pt; font-family:Arial, Helvetica, sans-serif; color:#FFFFFF;  }
 .textstyle6 { font-size:14pt; font-family:Arial, Helvetica, sans-serif; color:#FFFFFF; font-weight:bold;  }
-#container_4a5a90a8 { vertical-align: top; position:relative; display: inline-block; width:100%; min-height:215px; background-color:#160B1A; background: linear-gradient(to bottom, #6940AB, #160B1A);  }
-#img_3dbc5511 { vertical-align: bottom; position:relative; display: inline-block; margin:0px 0px 20px 0px;width:100%; background:none; height:auto;  }
+#container_4a5a90a8 { vertical-align: top; position:relative; display: inline-block; width:100%; min-height:215px; background:none;  }
+#img_3dbc5511 { vertical-align: bottom; position:relative; display: inline-block; margin:0px 0px 20px 0px;width:100%; background-color:#FFFFFF; background: linear-gradient(to bottom, #7F7F7F, #FFFFFF); height:auto;  }
 .textstyle7 { font-size:22pt; font-family:Arial, Helvetica, sans-serif; color:#000000;  }
 .vcenterstyle1 { display: table; width: 100%; height: 100%; }
 .vcenterstyle2 { display: table-cell; vertical-align: middle; }
@@ -45,7 +45,7 @@ body { background-color:#FFFFFF; padding:0;  margin: 0; }
 #container_28baa5e8_padding { margin: 10px; display: block;  }
 .textstyle14 { font-size:12pt; font-family:Segoe, 'Segoe UI', 'Helvetica Neue', sans-serif; color:#20242E; line-height: 1.5;  }
 .textstyle15 { font-size:12pt; font-family:Segoe, 'Segoe UI', 'Helvetica Neue', sans-serif; color:#20242E; font-weight:bold; line-height: 1.5;  }
-.textstyle16 { font-size:12pt; font-family:Segoe, 'Segoe UI', 'Helvetica Neue', sans-serif; color:#20242E; font-style:italic; text-decoration:underline; line-height: 1.5;  }
+.textstyle16 { font-size:12pt; font-family:Segoe, 'Segoe UI', 'Helvetica Neue', sans-serif; color:#20242E; text-decoration:underline; line-height: 1.5;  }
 #container_749be54d { vertical-align: top; position:relative; display: inline-block; width:100%; min-height:233px; background-color:#494949;  }
 #container_749be54d_padding { margin: 10px; display: block;  }
 .textstyle17 { font-size:16pt; font-family:Segoe, 'Segoe UI', 'Helvetica Neue', sans-serif; color:#FFFFFF;  }
